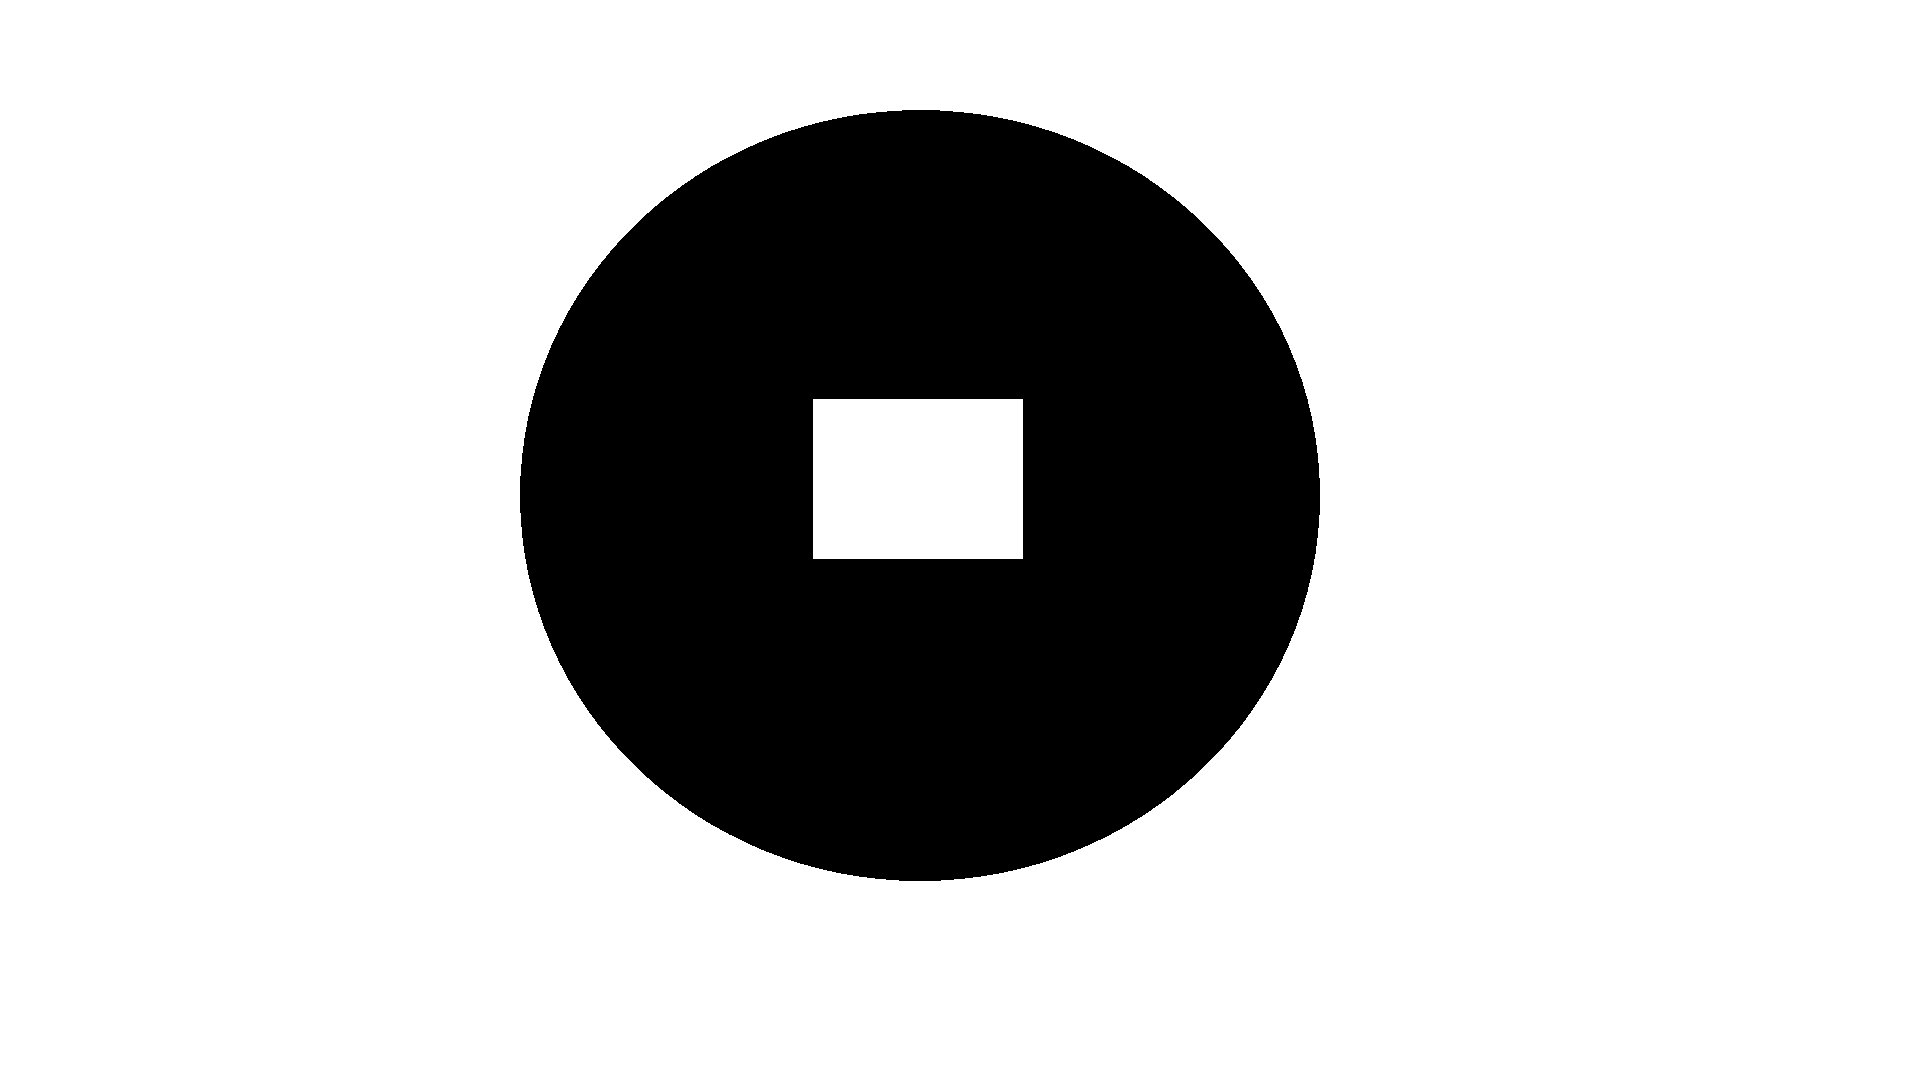
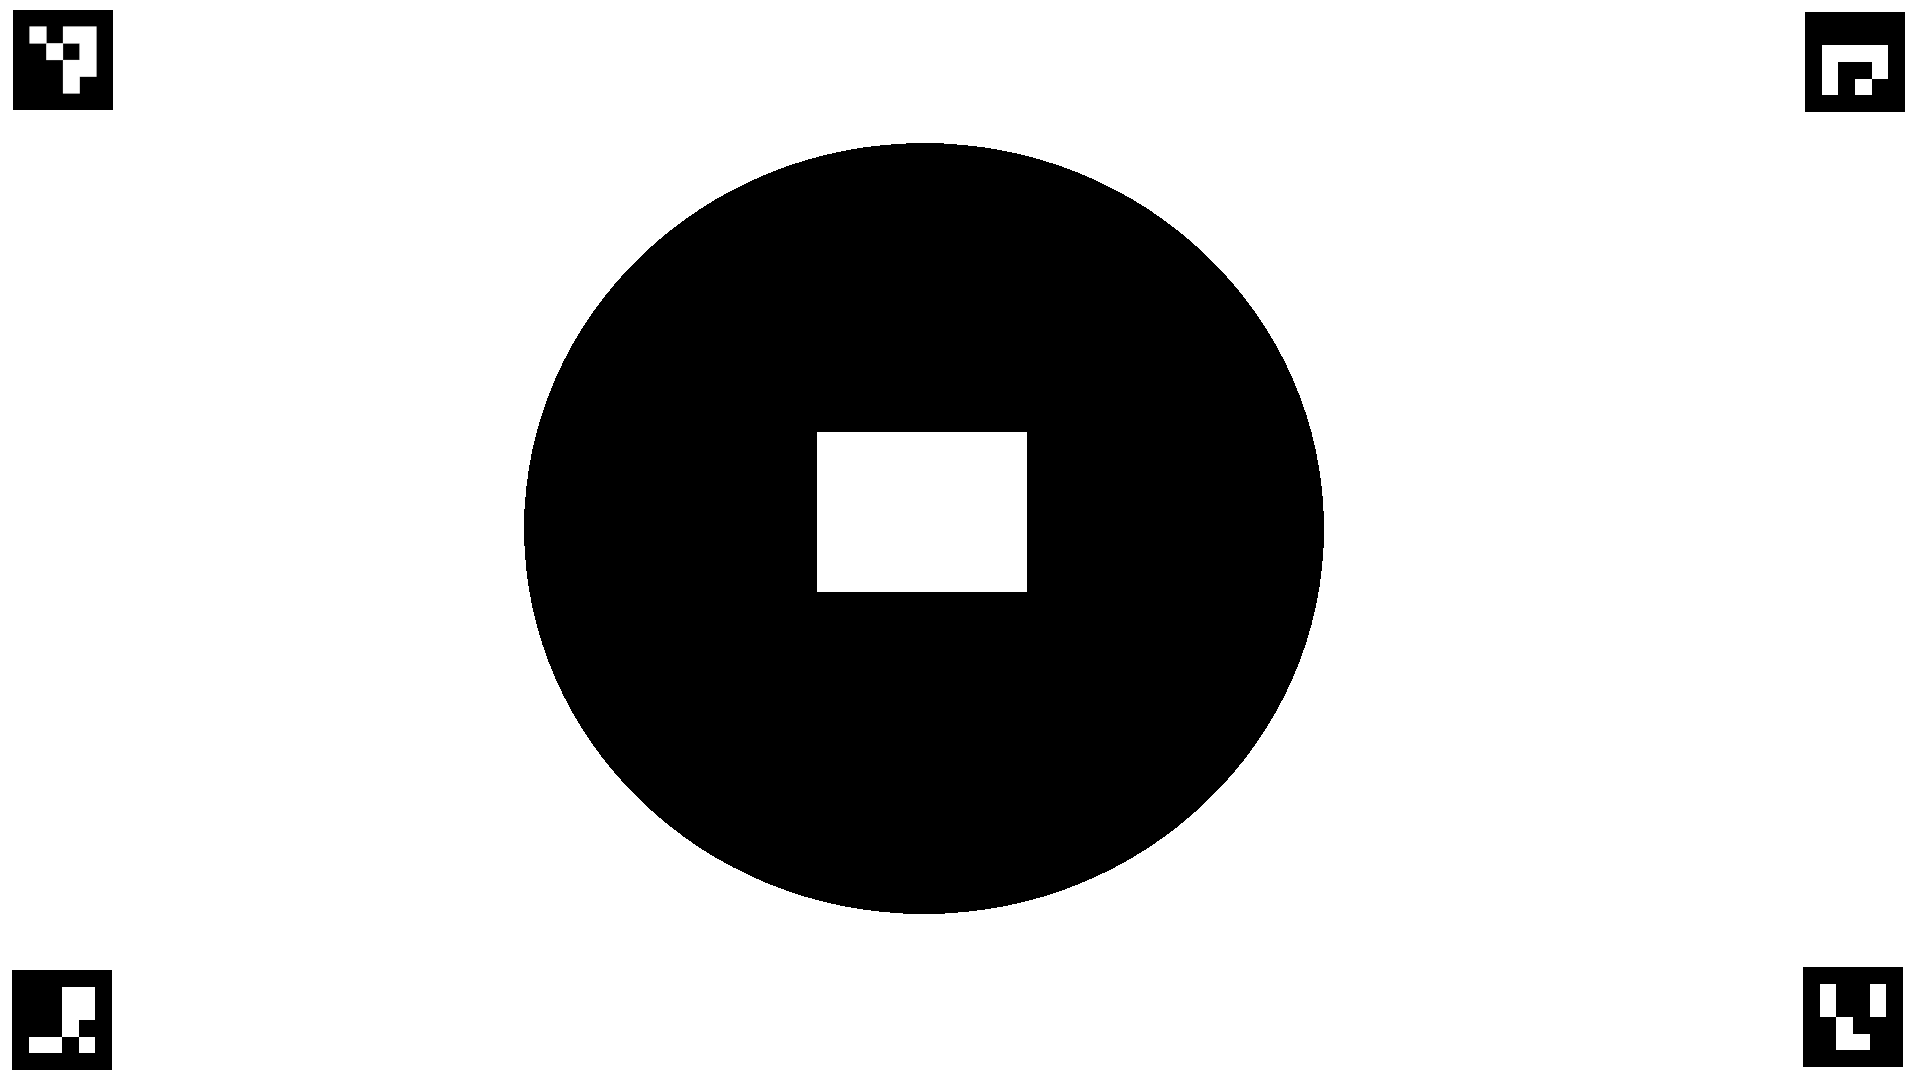
Shape detection working (but sourcecode is a mess)

diff --git a/WProject/Assets/Scripts/ShapeDetector.cs b/WProject/Assets/Scripts/ShapeDetector.cs
@@ -8,6 +8,13 @@ using Emgu.CV.CvEnum;
 using System.Drawing;
 using System;
 using Emgu.CV.Util;
+using Emgu.CV.Aruco;
+
+public enum ShowType {
+    Plain_Aruco_Image,
+    Sub_Aruco_Image,
+    Shape_Sub_Aruco_Image
+}
 
 public class ShapeDetector : MonoBehaviour {
 
@@ -17,10 +24,20 @@ public class ShapeDetector : MonoBehaviour {
 
     [HideInInspector]
     public string fileName;
-    string oldFileName;
 
     [Range(0, 1)]
     public double approxVar = 0.04; //Best value
+
+    public double areaThreshold = 250;
+
+    public ShowType showType;
+
+    /** Mat to show **/
+    private Mat plainArucoImage;
+    private Mat subArucoArea;
+    private Mat shapeSubArucoArea;
+
+    EShapeCombination combinationFound;
 
 
     // Start is called before the first frame update
@@ -29,89 +46,269 @@ public class ShapeDetector : MonoBehaviour {
         rawImage = GameObject.Find("WebcamScreen").GetComponent<UnityEngine.UI.RawImage>();
     }
 
+
     void Update() {
-        //ProcessImage();
-        if (oldFileName != fileName) {
-            ProcessImage();
-            oldFileName = fileName;
-        }
+        combinationFound = GetShapeCombination();
+        Debug.Log(combinationFound);
+        RenderImage();
     }
 
-    void ProcessImage() {
-        Mat image = new Mat(@"..\TestImages\" + fileName);
-        Mat negative = new Mat();
-        CvInvoke.BitwiseNot(image, negative);
-        Mat result = GetRectangles(negative);
-
-        int width = (int)rawImage.rectTransform.rect.width;
-        int height = (int)rawImage.rectTransform.rect.height;
+    void ResetVariables() {
+        plainArucoImage = new Mat();
+        subArucoArea = new Mat();
+        shapeSubArucoArea = new Mat();
 
         // destroy existing texture
         if (tex != null) {
             Destroy(tex);
             tex = null;
         }
+    }
+
+    Mat GetFrame() {
+        return new Mat(@"..\TestImages\" + fileName); ;
+    }
+
+    EShapeCombination GetShapeCombination() {
+
+        ResetVariables();
+        Mat frame = GetFrame();
+        
+        
+        /** ARUCO MARKERS **/
+
+        // Markers ID
+        VectorOfInt markersID = new VectorOfInt();
+
+        // marker corners & rejected candidates
+        VectorOfVectorOfPointF markersCorner = new VectorOfVectorOfPointF();
+        VectorOfVectorOfPointF rejectedCandidates = new VectorOfVectorOfPointF();
+
+        // Detector parameters for tuning the algorithm
+        DetectorParameters parameters = new DetectorParameters();
+        parameters = DetectorParameters.GetDefault();
+
+        // dictionary of aruco's markers
+        Dictionary dictMarkers = new Dictionary(Dictionary.PredefinedDictionaryName.Dict4X4_50);
+
+        //// convert image
+        //Mat grayFrame = new Mat(frame.Width, frame.Height, DepthType.Cv8U, 1);
+        //CvInvoke.CvtColor(frame, grayFrame, ColorConversion.Bgr2Gray);
+
+        // detect markers
+        ArucoInvoke.DetectMarkers(frame, dictMarkers, markersCorner, markersID, parameters, rejectedCandidates);
+
+        plainArucoImage = new Mat(frame.Width, frame.Height, DepthType.Cv8U, 3);
+        frame.CopyTo(plainArucoImage);
+
+        if (markersID.Size > 0) {
+            ArucoInvoke.DrawDetectedMarkers(plainArucoImage, markersCorner, markersID, new MCvScalar(0, 255, 0));
+        }
+
+        //Guard
+        if (markersCorner.Size != 4) {
+            return EShapeCombination.NONE;
+        }
+
+
+        /** CARD EXTRACTION **/
+
+        // Compute Bounding Box from aruco markers
+        PointF[] pointList = new PointF[4];
+
+        for (int i = 0; i < markersCorner.Size; i++) {
+
+            switch (markersID[i]) {
+                case 0:
+                    pointList[0] = markersCorner[i][2];
+                    break;
+                case 1:
+                    pointList[1] = markersCorner[i][3];
+                    break;
+                case 2:
+                    pointList[2] = markersCorner[i][1];
+                    break;
+                case 3:
+                    pointList[3] = markersCorner[i][0];
+                    break;
+                default:
+                    throw new Exception("Wrong Aruco ID !");
+            }
+
+        }
+
+        VectorOfPointF boxList = new VectorOfPointF(pointList);
+        System.Drawing.Rectangle boundingBox = CvInvoke.BoundingRectangle(boxList);
+
+        // Extraction
+        subArucoArea = new Mat(frame, boundingBox);
+
+
+        /** SHAPE DETECTION **/
+
+        //Take negative
+        Mat subArucoAreaNegative = new Mat();
+        CvInvoke.BitwiseNot(subArucoArea, subArucoAreaNegative);
+
+        Image<Bgr, byte> img = subArucoAreaNegative.ToImage<Bgr, byte>();
+
+        Mat image = new Mat();
+        CvInvoke.CvtColor(subArucoAreaNegative, image, ColorConversion.Bgr2Gray);
+
+        VectorOfVectorOfPoint contours = new VectorOfVectorOfPoint();
+        CvInvoke.FindContours(image, contours, null, RetrType.List, ChainApproxMethod.ChainApproxSimple);
+
+        //Filter small areas
+        VectorOfVectorOfPoint filteredContours = new VectorOfVectorOfPoint();
+        for (int i = 0; i < contours.Size; i++) {
+
+            double area = CvInvoke.ContourArea(contours[i], false);
+            if (area > areaThreshold) {
+                filteredContours.Push(contours[i]);
+            }
+        }
+
+        //Guard
+        if (filteredContours.Size < 1 || filteredContours.Size > 2) {
+            return EShapeCombination.NONE;
+        }
+
+        double outisdeArea = 0;
+        Shape outsideShape = Shape.None;
+        Shape insideShape = Shape.None;
+
+        for (int i = 0; i < filteredContours.Size; i++) {
+
+            double perimeter = CvInvoke.ArcLength(filteredContours[i], true);
+            VectorOfPoint approx = new VectorOfPoint();
+            CvInvoke.ApproxPolyDP(filteredContours[i], approx, approxVar * perimeter, true);
+
+            CvInvoke.DrawContours(img, filteredContours, i, new MCvScalar(0, 0, 255), 1);
+            img.Draw(CvInvoke.MinAreaRect(approx), new Bgr(System.Drawing.Color.Orange), 2);
+            var moments = CvInvoke.Moments(filteredContours[i]);
+            int x = (int)(moments.M10 / moments.M00) - 35;
+            int y = (int)(moments.M01 / moments.M00);
+
+            double area = CvInvoke.ContourArea(filteredContours[i], false);
+            Shape currentShape = Shape.None;
+
+            if (approx.Size == 3) {
+                CvInvoke.PutText(img, "Triangle", new Point(x, y), FontFace.HersheySimplex, 0.5, new MCvScalar(0, 0, 255), 2);
+                currentShape = Shape.Triangle;
+            }
+            if (approx.Size == 4) {
+                CvInvoke.PutText(img, "Rectangle", new Point(x, y), FontFace.HersheySimplex, 0.5, new MCvScalar(0, 0, 255), 2);
+                currentShape = Shape.Rectangle;
+            }
+            if (approx.Size > 4) {
+                CvInvoke.PutText(img, "Circle", new Point(x, y), FontFace.HersheySimplex, 0.5, new MCvScalar(0, 0, 255), 2);
+                currentShape = Shape.Circle;
+            }
+
+            if (area > outisdeArea) {
+                outisdeArea = area;
+                insideShape = outsideShape;
+                outsideShape = currentShape;
+            } else {
+                insideShape = currentShape;
+            }
+
+            RotatedRect approxMinRect = CvInvoke.MinAreaRect(approx);
+            RotatedRect minRect = CvInvoke.MinAreaRect(filteredContours[i]);
+            img.Draw(minRect, new Bgr(System.Drawing.Color.Silver), 2);
+
+        }
+
+        shapeSubArucoArea = img.Mat;
+
+        switch (outsideShape) {
+            case Shape.None:
+                return EShapeCombination.NONE;
+
+            case Shape.Rectangle:
+                switch (insideShape) {
+                    case Shape.None:
+                        return EShapeCombination.SIMPLE_RECTANGLE;
+                    case Shape.Rectangle:
+                        return EShapeCombination.DOUBLE_RECTANGLE;
+                    case Shape.Triangle:
+                        return EShapeCombination.RECTANGLE_TRIANGLE;
+                    case Shape.Circle:
+                        return EShapeCombination.RECTANGLE_CIRCLE;
+                }
+                break;
+
+            case Shape.Triangle:
+                switch (insideShape) {
+                    case Shape.None:
+                        return EShapeCombination.SIMPLE_TRIANGLE;
+                    case Shape.Rectangle:
+                        return EShapeCombination.TRIANGLE_RECTANGLE;
+                    case Shape.Triangle:
+                        return EShapeCombination.DOUBLE_TRIANGLE;
+                    case Shape.Circle:
+                        return EShapeCombination.TRIANGLE_CIRCLE;
+                }
+                break;
+
+            case Shape.Circle:
+                switch (insideShape) {
+                    case Shape.None:
+                        return EShapeCombination.SIMPLE_CIRCLE;
+                    case Shape.Rectangle:
+                        return EShapeCombination.CIRCLE_RECTANGLE;
+                    case Shape.Triangle:
+                        return EShapeCombination.CIRCLE_TRIANGLE;
+                    case Shape.Circle:
+                        return EShapeCombination.DOUBLE_CIRCLE;
+                }
+                break;
+        }
+
+        return EShapeCombination.NONE;
+
+    }
+
+    void RenderImage() {
+
+        int width = (int)rawImage.rectTransform.rect.width;
+        int height = (int)rawImage.rectTransform.rect.height;
 
         tex = new Texture2D(width, height, TextureFormat.RGBA32, false);
 
+        Mat toShow = new Mat();
+        switch (showType) {
+            case ShowType.Plain_Aruco_Image:
+                toShow = plainArucoImage;
+                break;
+            case ShowType.Sub_Aruco_Image:
+                toShow = subArucoArea;
+                break;
+            case ShowType.Shape_Sub_Aruco_Image:
+                toShow = shapeSubArucoArea;
+                break;
+        }
+
         // Resize mat to the texture format
-        CvInvoke.Resize(result, result, new System.Drawing.Size(width, height));
+        CvInvoke.Resize(toShow, toShow, new System.Drawing.Size(width, height));
         // Convert to unity texture format ( RGBA )
-        CvInvoke.CvtColor(result, result, ColorConversion.Bgr2Rgba);
+        CvInvoke.CvtColor(toShow, toShow, ColorConversion.Bgr2Rgba);
         // Flipping because unity texture is inverted.
-        CvInvoke.Flip(result, result, FlipType.Vertical);
+        CvInvoke.Flip(toShow, toShow, FlipType.Vertical);
 
         // loading texture in texture object
-        tex.LoadRawTextureData(result.ToImage<Rgba, byte>().Bytes);
+        tex.LoadRawTextureData(toShow.ToImage<Rgba, byte>().Bytes);
         tex.Apply();
 
         // assigning texture to gameObject
         rawImage.texture = tex;
     }
 
-    public Mat GetRectangles(Mat src) {
-
-        Image<Bgr, byte> img = src.ToImage<Bgr, byte>();
-
-        Mat image = new Mat();
-        CvInvoke.CvtColor(src, image, ColorConversion.Bgr2Gray);
-
-        VectorOfVectorOfPoint contours = new VectorOfVectorOfPoint();
-
-        CvInvoke.FindContours(image, contours, null, RetrType.List, ChainApproxMethod.ChainApproxSimple);
-
-        for (int i = 0; i < contours.Size; i++) {
-            double perimeter = CvInvoke.ArcLength(contours[i], true);
-            VectorOfPoint approx = new VectorOfPoint();
-            CvInvoke.ApproxPolyDP(contours[i], approx, approxVar * perimeter, true);
-
-            CvInvoke.DrawContours(img, contours, i, new MCvScalar(0, 0, 255), 1);
-            img.Draw(CvInvoke.MinAreaRect(approx), new Bgr(System.Drawing.Color.Orange), 2);
-            var moments = CvInvoke.Moments(contours[i]);
-            int x = (int)(moments.M10 / moments.M00) - 35;
-            int y = (int)(moments.M01 / moments.M00);
-
-            //double area = CvInvoke.ContourArea(contours[i], false);
-            //Debug.Log(area);
-
-            if (approx.Size == 3) {
-                CvInvoke.PutText(img, "Triangle", new Point(x, y), FontFace.HersheySimplex, 0.5, new MCvScalar(0, 0, 255), 2);
-            }
-            if (approx.Size == 4) {
-                CvInvoke.PutText(img, "Rectangle", new Point(x, y), FontFace.HersheySimplex, 0.5, new MCvScalar(0, 0, 255), 2);
-            }
-            //if (approx.Size == 6) {
-            //    CvInvoke.PutText(img, "Hexagon", new Point(x, y), FontFace.HersheySimplex, 0.5, new MCvScalar(0, 0, 255), 2);
-            //}
-            if (approx.Size > 4) {
-                CvInvoke.PutText(img, "Circle", new Point(x, y), FontFace.HersheySimplex, 0.5, new MCvScalar(0, 0, 255), 2);
-            }
-
-            RotatedRect approxMinRect = CvInvoke.MinAreaRect(approx);
-            RotatedRect minRect = CvInvoke.MinAreaRect(contours[i]);
-            img.Draw(minRect, new Bgr(System.Drawing.Color.Silver), 2);
-        }
-        return img.Mat;
+    enum Shape {
+        None,
+        Rectangle,
+        Triangle,
+        Circle
     }
 
 }

diff --git a/WProject/Assets/Scripts/Enums.cs b/WProject/Assets/Scripts/Enums.cs
@@ -4,6 +4,7 @@ using UnityEngine;
 
 public enum EShapeCombination
 {
+    NONE,
     SIMPLE_RECTANGLE,
     SIMPLE_TRIANGLE,
     SIMPLE_CIRCLE,
